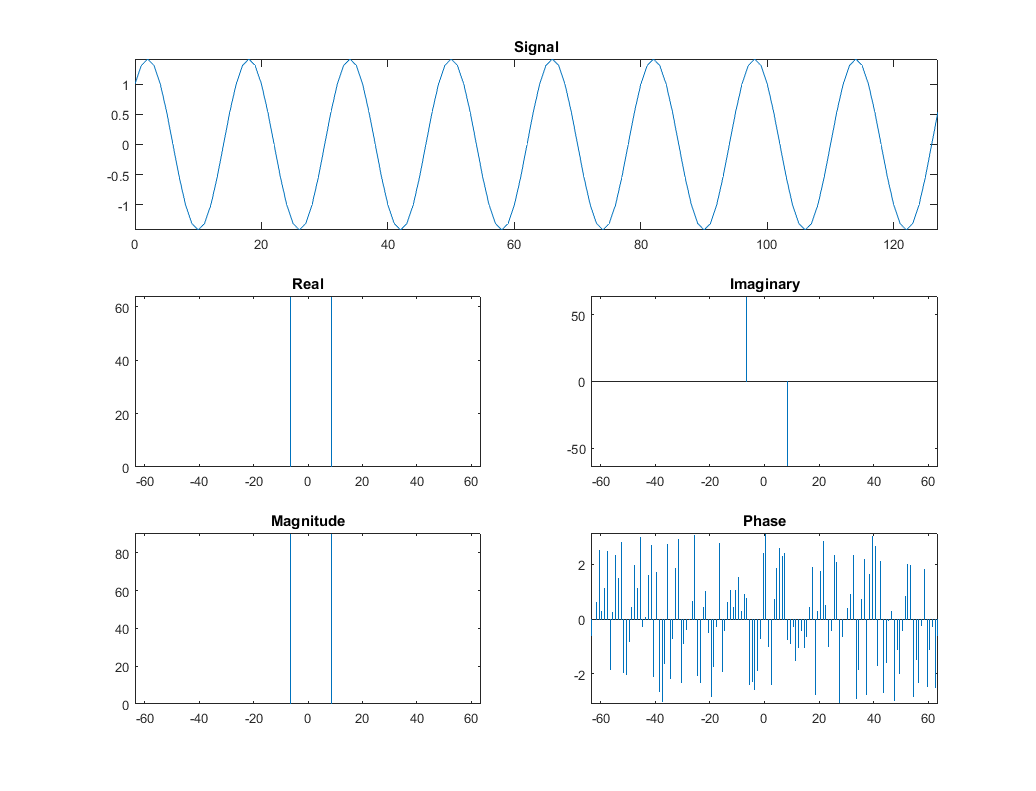
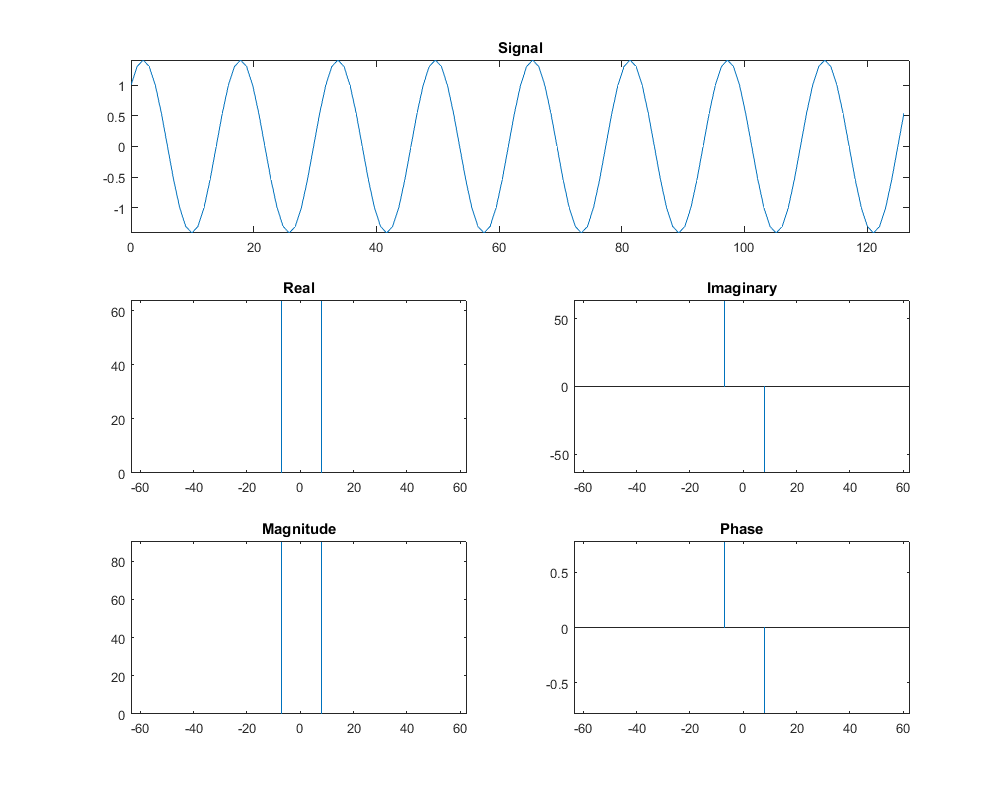
Updated graphs, added frequency analysis

diff --git a/FourierPlot.m b/FourierPlot.m
@@ -1,9 +1,11 @@
 function [ f_signal ] = FourierPlot( signal, t_min, t_max )
 %FOURIERPLOT Plot Fourier Transform of signal from t_min to t_max.
 
-N = length(signal)
+N = length(signal);
 
-x = t_min:t_max;
+diff = t_max - t_min;
+
+x = t_min:diff/N:t_max-(diff/N);
 x0 = x - ((t_max + t_min) / 2);
 
 fs = fft(signal);
@@ -29,7 +31,11 @@ title('Imaginary')
 linkaxes([real_plot, imag_plot], 'xy')
 
 magnitude = abs(f_signal);
-phase = atan2(imag(f_signal), real(f_signal));
+
+threshold = 1e-4;
+sig_mag = magnitude > threshold;
+phase_sig = times(f_signal, sig_mag);
+phase = atan2(imag(phase_sig), real(phase_sig));
 
 subplot(3, 2, 5)
 stem(x0, magnitude, 'Marker', 'none')

diff --git a/FourierFreqAnalysis.m b/FourierFreqAnalysis.m
@@ -1,7 +1,25 @@
-function [ output_args ] = FourierFreqAnalysis( input_args )
+function [ M ] = FourierFreqAnalysis( signal, t_min, t_max )
 %FOURIERFREQANALYSIS Summary of this function goes here
 %   Detailed explanation goes here
 
+maxCount = 3;
+
+N = length(signal);
+diff = t_max - t_min;
+x = t_min:diff/N:t_max-(diff/N);
+x0 = x(1:N/2);
+
+fs = fft(signal);
+f_signal = fs(1:N/2); % only half of signal, because it is mirrored.
+
+magnitude = abs(f_signal);
+
+M = zeros(1, maxCount);
+for t = 1:maxCount
+    [~, i] = max(magnitude);
+    M(t) = i;
+    magnitude(i) = 0; 
+end
 
 end
 
